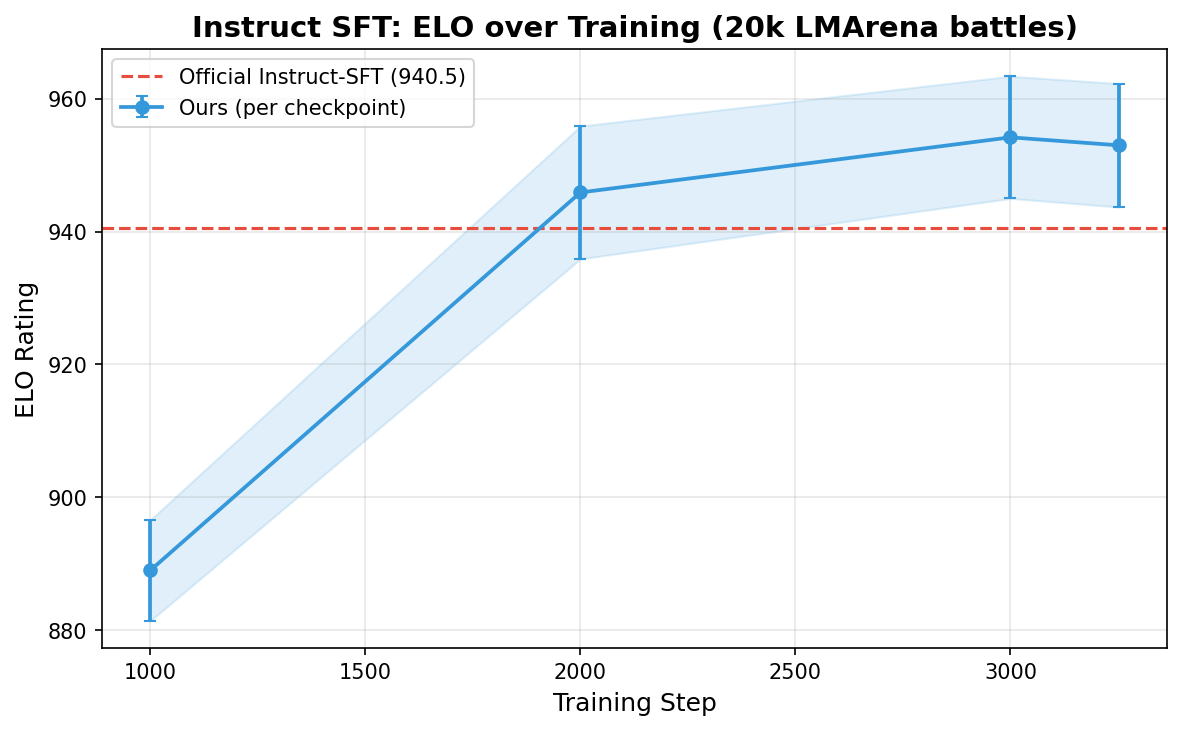
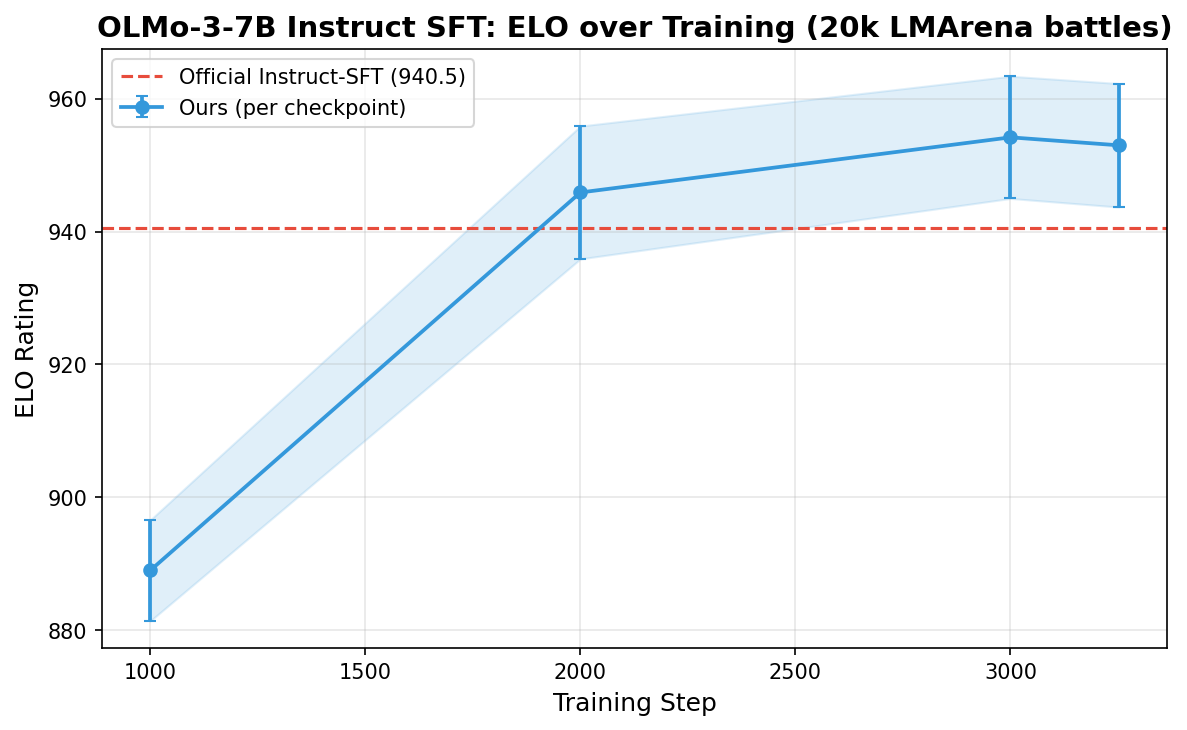
Add OLMo-3-7B model name to ELO curve plot titles

diff --git a/oellm/evaluations/scripts/plot_elo_curves.py b/oellm/evaluations/scripts/plot_elo_curves.py
@@ -46,7 +46,7 @@ def plot_think_elo():
 
     ax.set_xlabel("Training Step", fontsize=12)
     ax.set_ylabel("ELO Rating", fontsize=12)
-    ax.set_title("Think SFT: ELO over Training (20k LMArena battles)", fontsize=14, fontweight="bold")
+    ax.set_title("OLMo-3-7B Think SFT: ELO over Training (20k LMArena battles)", fontsize=14, fontweight="bold")
     ax.legend(fontsize=10)
     ax.grid(True, alpha=0.3)
 
@@ -72,7 +72,7 @@ def plot_instruct_elo():
 
     ax.set_xlabel("Training Step", fontsize=12)
     ax.set_ylabel("ELO Rating", fontsize=12)
-    ax.set_title("Instruct SFT: ELO over Training (20k LMArena battles)", fontsize=14, fontweight="bold")
+    ax.set_title("OLMo-3-7B Instruct SFT: ELO over Training (20k LMArena battles)", fontsize=14, fontweight="bold")
     ax.legend(fontsize=10)
     ax.grid(True, alpha=0.3)
 
